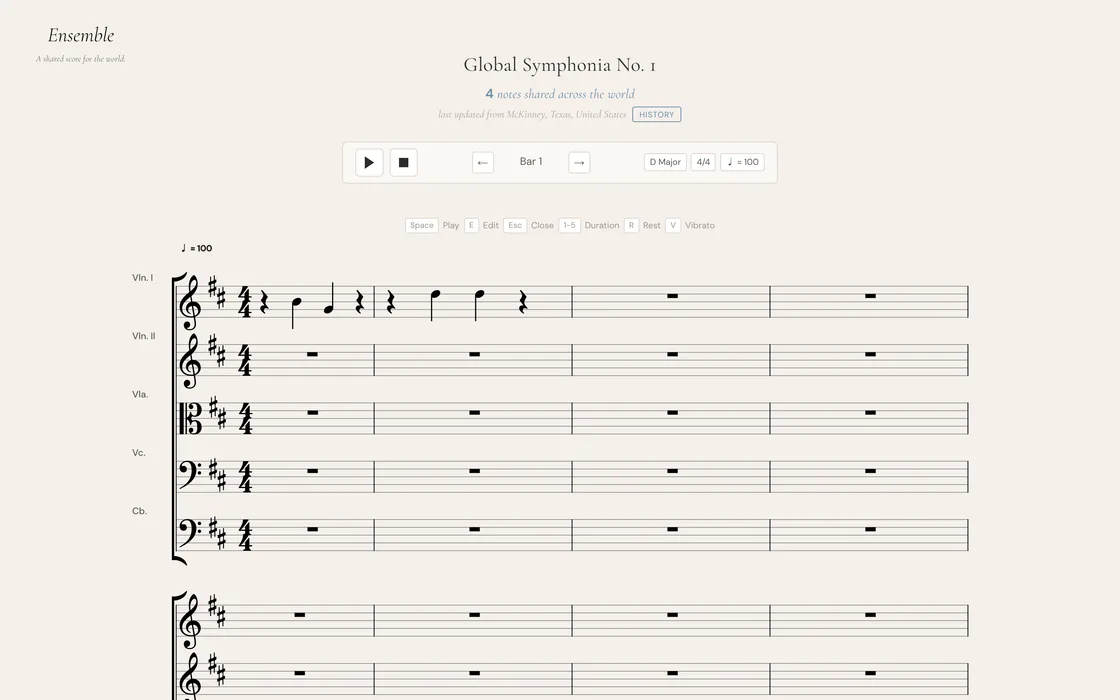
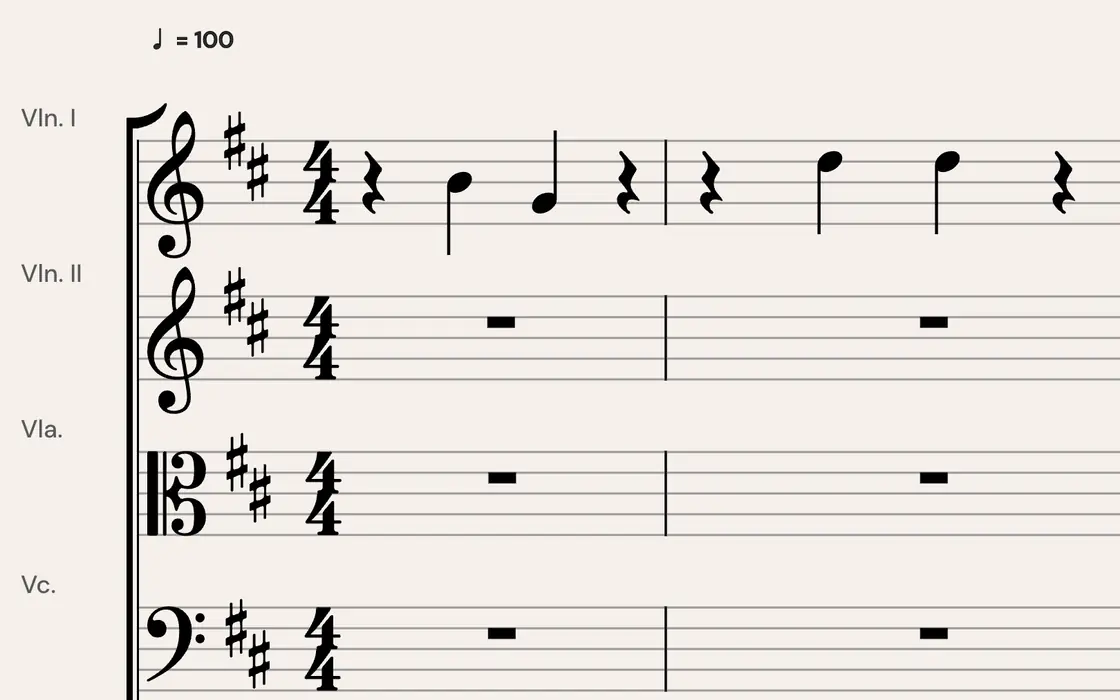
Show each project's key moment instead of a shrunken landing page
Every card picture is now a 16:10 crop of the project doing its thing,
captured from the live sites: wobbl's bracket failing at 167.0 MPa,
rm -rf then oops in the oopsy demo, "Hey Taro" filing an issue, signnet
reading a stop sign, the opening bars of ensemble's score, VacantCourt's
camera boxing players, a mochi recipe and a CareerAI answer. Alt text
describes each one.

Kind is one axis now, what each project is: Simulator, CLI tool, AI
agent, Neural network, Web app, Mobile + web app.

Claude-Session: https://claude.ai/code/session_01UbDeNRdwmFG8bzMro4Mjnb

diff --git a/src/data/projects.js b/src/data/projects.js
@@ -1,5 +1,6 @@
-// `date` is when each project started. `image` names the card-<image>-560 and
-// -1120 screenshots in public/imgs, cropped to 16:10.
+// `date` is when each project started. `kind` says what it is. `image` names
+// the card-<image>-560 and -1120 pictures in public/imgs: a 16:10 crop of the
+// moment the project does its thing, not its whole landing page.
 const projects = [
     {
         id: 'wobbl',
@@ -14,11 +15,11 @@ const projects = [
             { label: 'Video', url: 'https://www.youtube.com/watch?v=RtCNKbhABqE' },
         ],
         image: 'wobbl',
-        alt: 'Wobbl’s site: “Simulate anything before you build it.” beside a 3D bracket colored by stress.',
+        alt: 'A bracket under a 2,700 N load, colored by stress, with its failure point marked at 167.0 MPa.',
     },
     {
         id: 'oopsy',
-        kind: 'CLI',
+        kind: 'CLI tool',
         title: 'oopsy',
         date: '2026-10-09',
         line: 'Undo for rm -rf. It snapshots your files, git and Postgres right before a destructive command runs. Type oops to get it back.',
@@ -29,11 +30,11 @@ const projects = [
             { label: 'Video', url: 'https://youtu.be/Krh9cU08rIg' },
         ],
         image: 'oopsy',
-        alt: 'Oopsy’s site: “Undo for rm -rf.” beside a terminal you can try in the browser.',
+        alt: 'A terminal: rm -rf src, then oops restores the folder from snapshot 42.',
     },
     {
         id: 'taro',
-        kind: 'Agent',
+        kind: 'AI agent',
         title: 'taro',
         date: '2026-08-29',
         line: 'A voice assistant for Google Meet. Say “Hey Taro” and it posts to Slack, files GitHub issues, or adds to a to-do list.',
@@ -44,11 +45,11 @@ const projects = [
             { label: 'Video', url: 'https://youtu.be/8_FzNl4uwyY' },
         ],
         image: 'taro',
-        alt: 'Taro’s activation page: “Say it in the meeting. Done before you hang up.”',
+        alt: 'A meeting transcript: “Hey Taro, file an issue about that.” Taro: “Opened issue #142 in acme/web.”',
     },
     {
         id: 'signnet',
-        kind: 'Neural net',
+        kind: 'Neural network',
         title: 'signnet',
         date: '2026-06-12',
         line: 'Sorts German traffic signs with 90% accuracy. Built from scratch in NumPy: no PyTorch, no autograd.',
@@ -58,7 +59,7 @@ const projects = [
             { label: 'Code', url: 'https://github.com/sohan-bhat/signnet' },
         ],
         image: 'signnet',
-        alt: 'signnet’s demo page, “Traffic sign classification, built from scratch,” with its test accuracy.',
+        alt: 'signnet classifying a stop sign as Stop with 100.0% confidence.',
     },
     {
         id: 'ensemble',
@@ -72,11 +73,11 @@ const projects = [
             { label: 'Code', url: 'https://github.com/sohan-bhat/ensemble' },
         ],
         image: 'ensemble',
-        alt: 'Ensemble’s shared score for violins, viola, cello, and bass.',
+        alt: 'The opening bars of Ensemble’s shared score, with the first notes in the violins.',
     },
     {
         id: 'vacantcourt',
-        kind: 'Android + web',
+        kind: 'Mobile + web app',
         title: 'VacantCourt',
         date: '2025-03-17',
         line: 'A phone at the court spots players with an on-device model, and the website shows which courts are free.',
@@ -87,7 +88,7 @@ const projects = [
             { label: 'App', url: 'https://github.com/sohan-bhat/VacantCourtApp', title: 'Android app code' },
         ],
         image: 'vacantcourt',
-        alt: 'VacantCourt’s home page, “Skip the drive to a full court,” beside a court camera that boxes each player.',
+        alt: 'VacantCourt’s court camera boxing each player inside the outlines of Court 1 and Court 2.',
     },
     {
         id: 'mochi',
@@ -101,7 +102,7 @@ const projects = [
             { label: 'Code', url: 'https://github.com/sohan-bhat/Mochi' },
         ],
         image: 'mochi',
-        alt: 'Mochi’s home page: “Turn what you have into what you’ll cook tonight.”',
+        alt: 'Mochi’s first suggestion: a spinach and tomato frittata with onion and garlic.',
     },
     {
         id: 'career-ai',
@@ -116,7 +117,7 @@ const projects = [
             { label: 'Code', url: 'https://github.com/sohan-bhat/CareerAI' },
         ],
         image: 'careerai',
-        alt: 'CareerAI suggesting careers from a list of interests.',
+        alt: 'CareerAI turning “I love coding and tennis” into a career idea: sports-tech software engineer.',
     },
 ];
 
